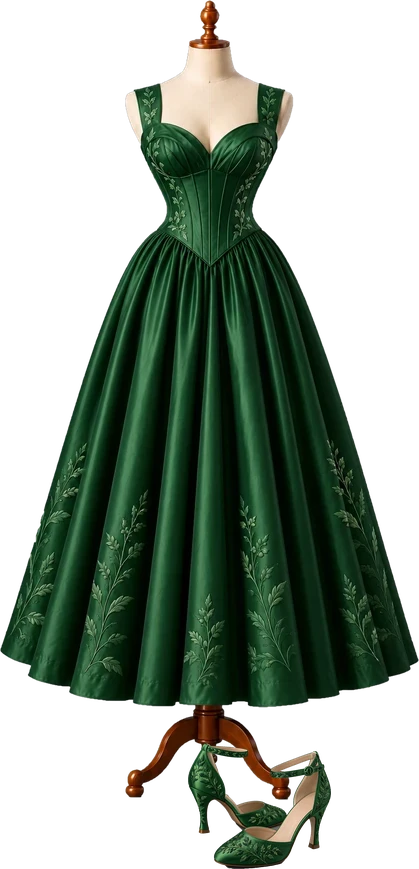
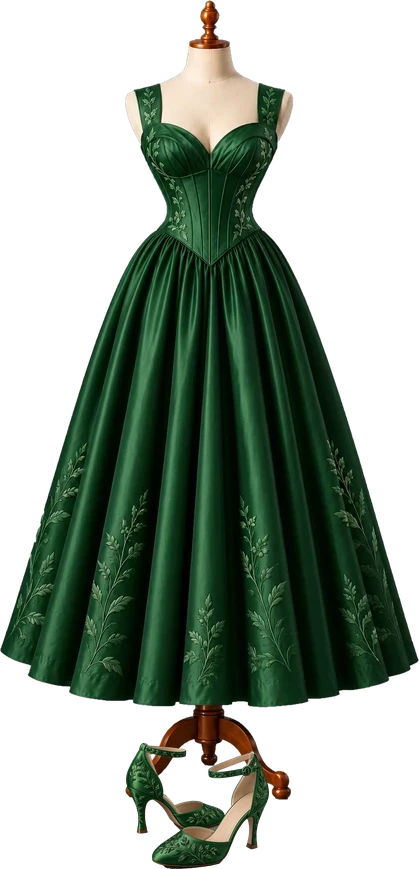
Lady: neues Gewächshaus-Bild, Schuhe 15 % weiter links (1.90.2)

Changed region(s): [[0.2792, 0.8389, 0.8067, 1.0]]

diff --git a/index.html b/index.html
@@ -1855,7 +1855,7 @@ html.theme-retreat .shelf-orchid{ position:absolute; left:0; bottom:-13.8%; heig
 
 <script>
 /* Bump on every published update, so it's visible at a glance whether the newest version is loaded. */
-const APP_VERSION = '1.90.1';
+const APP_VERSION = '1.90.2';
 /* Design (since 1.80.0, see the small script in <head>): in "Business" (BIZ) the gold paper icons are swapped for plain line
    icons (img/icons-rl/*.svg) wherever they appear – also in everything drawn later – so the rest of the code stays as it is. */
 // A Lady's Conservatory (1.84.0, named so since 1.86.1; key 'retreat' and RETREAT stay): light, cream and forest green; until its own pictures come it uses those of A Gentleman's Study (with the
@@ -1913,7 +1913,7 @@ function ensureBuiltInMeditations(st){
   return st;
 }
 function isBuiltInMeditation(id){ return DEFAULT_MEDITATIONEN.some(m=>m.builtIn && m.id === id); }
-const APP_BUILD = '2026-10-21';
+const APP_BUILD = '2026-10-22';
 /* ================= i18n ================= */
 const I18N = {
   de:{ appName:'eWolfe', navAreas:'Bereiche', areasTitle:'Lebensbereiche', areasIntro:'Dein Lebensrad besteht aus fünf Bereichen. Zusammen zeigen sie dir, wie ausgeglichen dein Leben gerade ist – und aus ihnen wächst die Freude.', areasText:{ gesundheit:'Deine körperliche und mentale Fitness, dein Energielevel, deine Ernährung, dein Schlaf und erholsame Pausen.', beziehungen:'Die Beziehung zu dir selbst, deine Partnerschaft, Familie, Freundschaften und sozialen Kontakte.', finanzen:'Deine finanzielle Sicherheit, deine Rücklagen, dein Konsumverhalten und wie du mit Geld umgehst.', berufung:'Erfüllung im Beruf, Karriere und persönliche Weiterentwicklung – und das Gefühl, etwas Sinnvolles zu tun, statt nur Geld zu verdienen.', sinn:'Innerer Frieden, Achtsamkeit, deine Werte und der Sinn, den du findest – die Verbindung zu dir selbst oder zu etwas Größerem.', freude:'Freude stellst du nicht mit einem Regler ein – sie wächst aus den anderen fünf Bereichen. Wenn sie wachsen, wächst oft auch die Freude. Das muss nicht so sein, aber es kann so sein. Darum fragen wir dich, wie viel Freude du spürst, und vergleichen das mit dem, was dein Rad erwarten lässt. Wächst die Freude nicht mit, ist das kein Fehler, sondern eine Einladung, tiefer zu schauen.' }, areasHowTitle:'So erstellst du dein Lebensrad', areasStep1Title:'Bewerten', areasStep1:'Geh die fünf Bereiche nacheinander durch und schieb den Regler auf den Wert von 1 bis 100, der deinen aktuellen Stand am ehrlichsten beschreibt.', areasStep2Title:'Das Ergebnis', areasStep2:'Je runder dein Rad, desto ausgeglichener ist dein Leben. Zacken und Dellen zeigen dir auf einen Blick, wo du gerade Energie verlierst – und wo es sich lohnt anzusetzen.', areasStartFirst:'Erstes Lebensrad erstellen', areasContinue:'Mit vorhandenen Lebensrädern fortfahren', goalsEdit:'Ziele bearbeiten', navGoals:'Ziele', newWheel:'Neues Lebensrad erstellen', goalsTitle:'Ziele', setNotes:'Mitteilungen', noteUpdate:'Es gibt eine neue Version von eWolfe ({v}). Aktualisiere, um sie zu nutzen – deine Daten bleiben erhalten.', noteUpdateBtn:'Jetzt aktualisieren', noteSyncErr:'Die Synchronisation hat nicht geklappt.', noteSyncRetry:'Erneut versuchen', noteNone:'', wheelDelete:'Löschen', wheelDeleteConfirm:'Das Lebensrad vom {date} wirklich löschen? Das kann nicht rückgängig gemacht werden.', tblEvTitle:'Ereignisse im Überblick', tblEvNone:'Noch keine Ereignisse. Tippe im Lebensrad auf einen Bereich, um eines anzulegen.', tblEvHint:'Neueste oben. Tippe auf ein Ereignis, um den Bereich zu öffnen.', navHome:'Lebensrad', navHistory:'Verlauf', navNew:'Bewerten', navDiary:'Tagebuch', navMedi:'Achtsamkeit', accountTitle:'Konto & Einstellungen', settingsTitle:'Einstellungen', setAccount:'Konto & Cloud-Sync', setLang:'Sprache', setBackup:'Backup', setReplay:'Animation abspielen', sceneTitle:'Dein Lebensrad', sceneSub:'Aus dem eWolfe-Zeichen entsteht dein Lebensrad.',

diff --git a/CLAUDE.md b/CLAUDE.md
@@ -125,7 +125,7 @@ Der Nutzer ist kein Entwickler. Erkläre Schritte einfach und auf Deutsch.
 - Veröffentlicht über **GitHub Pages** aus diesem Repository (Branch `main`, Ordner `/`):
   https://k9vk58y99f-max.github.io/k9vk58y99f-max.github.io-ewolfe-app-/
 - Ein Commit + Push auf `main` ist die Veröffentlichung; nach 1–2 Minuten ist es live.
-- Bei jeder Änderung `APP_VERSION` erhöhen (aktuell `1.90.1`) und `APP_BUILD` anpassen.
+- Bei jeder Änderung `APP_VERSION` erhöhen (aktuell `1.90.2`) und `APP_BUILD` anpassen.
   Die Version steht unten in der App.
 
 ## Neu seit 1.55.0 (iPad, Wischen, Tagebuch, Sticker, Impulskarten)
